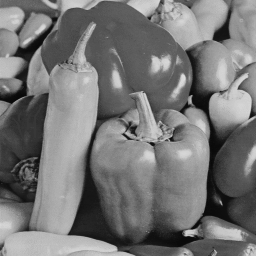
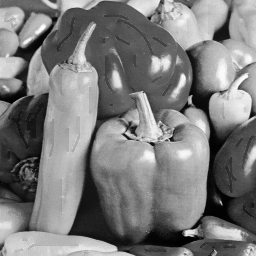
s o s

diff --git a/twodays.py b/twodays.py
@@ -8,118 +8,85 @@ from combine import get_high_res_colored
 from combine import get_high_res_colored2
 from combine import get_high_res_colored3
 from combine import get_high_res_colored4
-
+import numpy as np
 import scipy
-from scipy.misc import imread
+import scipy.misc
+
 
 import matplotlib
 import matplotlib.pyplot as plt
 matplotlib.use('TkAgg')
 
+import imageio
+from imageio import imread, imwrite
+
 PATH = 'images/'
-HIGH_RES_IMAGE = 'the_dunk.jpeg'
+HIGH_RES_IMAGE = 'colorized_test.png'
 
 if __name__ == "__main__":
 
+    fig = plt.figure()
     # Begin with a high resolution colorized image (HiResColor)
-    original_image = cv2.imread(PATH+HIGH_RES_IMAGE)
-    # # cv2.imshow('Original', original_image)
-    cv2.imwrite(PATH+'HiResColor_'+HIGH_RES_IMAGE, original_image)
+    original_image = imread(PATH+HIGH_RES_IMAGE)
+    # cv2.imshow('Original', original_image)
+    imwrite(PATH+'HiResColor_'+HIGH_RES_IMAGE, original_image)
+    fig.add_subplot(2,2,1).set_title('original')
+    imgplot = plt.imshow(original_image)
 
-    # # Convert the colorized image to black and white (HiResColor -> HiResBW)
+    # Convert the colorized image to black and white (HiResColor -> HiResBW)
     high_res_bw_image = color_to_bw(original_image)
-    # # cv2.imshow('HiResBW', high_res_bw_image)
-    cv2.imwrite(PATH+'HiResBW_'+HIGH_RES_IMAGE, high_res_bw_image)
+    # cv2.imshow('HiResBW', high_res_bw_image)
+    fig.add_subplot(2,2,2).set_title('black and white')
+    imgplot = plt.imshow(high_res_bw_image)
+    imwrite(PATH+'HiResBW_'+HIGH_RES_IMAGE, high_res_bw_image)
 
     # # Reduce the black and white image to a smaller size (HiResBW -> LoResBW)
     low_res_bw_image = res_change(high_res_bw_image, .5)
     # cv2.imshow(PATH+'LoResBW', low_res_bw_image)
-    cv2.imwrite(PATH+'LoResBW_'+HIGH_RES_IMAGE, low_res_bw_image)
+    fig.add_subplot(2,2,3).set_title('low_res bw')
+    imgplot = plt.imshow(low_res_bw_image)
+    imwrite(PATH+'LoResBW_'+HIGH_RES_IMAGE, low_res_bw_image)
 
-    # # User marks the smaller black and white image (LoResBW -> LoResMark)
-    #low_res_mark_image = cv2.imread(PATH+'LoResMark_colorized_test.png')
-    low_res_mark_image = color_image('LoResBW_'+HIGH_RES_IMAGE, HIGH_RES_IMAGE)
-    # cv2.imshow('LoResMark', low_res_mark_image)
-
-
-
-
-    # read in images
-    pic_o_rgb = imread(PATH+'LoResBW_'+HIGH_RES_IMAGE)
-    pic_o = pic_o_rgb.astype(float)/255
-    pic_m_rgb = imread(PATH+'LoResMark_colorized_test.png')
-    pic_m = pic_m_rgb.astype(float)/255
-    pic_high_res_bw_rgb = imread(PATH + 'HiResBW_'+ HIGH_RES_IMAGE)
-    pic_high_res_bw = pic_high_res_bw_rgb.astype(float)/255
-    pic_high_res_mark_rgb = imread(PATH + 'HiResMark_' + HIGH_RES_IMAGE)
-    pic_high_res_mark = pic_high_res_mark_rgb.astype(float)/255
-
-    ### Normal Colorization
-    ###
-    # time colorization process
-    t1_start = time.perf_counter()
-    t2_start = time.process_time()
-    
-    # get colorized versino of low res
-    high_res_color_image = colorize(pic_high_res_bw,pic_high_res_mark)
-
-    # get colorized version of high res
-    t1_stop = time.perf_counter()
-    t2_stop = time.process_time()
-    print("Elapsed time: %.1f [sec]" % ((t1_stop-t1_start)))
-    print("CPU process time: %.1f [sec]" % ((t2_stop-t2_start)))
-
-    fig = plt.figure()
-    fig.add_subplot(1,2,1).set_title('Black & White')
-    imgplot = plt.imshow(pic_o_rgb)
-    fig.add_subplot(1,2,2).set_title('Colorized')
-    imgplot = plt.imshow(high_res_color_image)
+    # User marks the smaller black and white image (LoResBW -> LoResMark)
+    low_res_mark_image = cv2.imread(PATH+'LoResMark_'+HIGH_RES_IMAGE)
+    # low_res_mark_image = color_image('LoResBW_'+HIGH_RES_IMAGE, HIGH_RES_IMAGE)
+    fig.add_subplot(2,2,4).set_title('marked low_res bw')
+    imgplot = plt.imshow(imread(PATH+'LoResMark_'+HIGH_RES_IMAGE))
     plt.show();
 
-    ### Colorize on using expanded colorize of low res
+    # cv2.imshow('LoResMark', low_res_mark_image)
+
+    # read in images
+
+    # # pic_o_rgb = low_res_bw_image[:,:,None]*np.ones(3, dtype=np.int8)[None,None,:]
+    pic_o_rgb = scipy.misc.imread(PATH+'LoResBW_colorized_test.png')
+    pic_o = pic_o_rgb.astype(float)/255
+    # # pic_m_rgb = low_res_mark_image[:,:,None]*np.ones(3, dtype=np.int8)[None,None,:]
+    pic_m_rgb = scipy.misc.imread(PATH+'LoResMark_colorized_test.png')
+    pic_m = pic_m_rgb.astype(float)/255
+
+
+    ## Colorize on using expanded colorize of low res
     t1_start = time.perf_counter()
     t2_start = time.process_time()
     
     # get colorized versino of low res
     low_res_color_image = colorize(pic_o,pic_m)
-
+    # cv2.imshow('LoResColor', low_res_color_image)
     # get colorized version of high res
-    high_res_color_reconstructed = get_high_res_colored4(pic_o, low_res_color_image, pic_high_res_bw,2)
-    high_res_color_image = colorize(pic_high_res_bw,high_res_color_reconstructed)
+    high_res_color_reconstructed = get_high_res_colored4(pic_o, low_res_color_image, high_res_bw_image,2)
+    high_res_color_image = colorize(high_res_bw_image,high_res_color_reconstructed)
     t1_stop = time.perf_counter()
     t2_stop = time.process_time()
     print("Elapsed time: %.1f [sec]" % ((t1_stop-t1_start)))
     print("CPU process time: %.1f [sec]" % ((t2_stop-t2_start)))
 
     fig = plt.figure()
-    fig.add_subplot(1,2,1).set_title('Black & White')
-    imgplot = plt.imshow(pic_o_rgb)
+    fig.add_subplot(1,2,1).set_title('REconstructed')
+    imgplot = plt.imshow(high_res_bw_image)
     fig.add_subplot(1,2,2).set_title('Colorized')
     imgplot = plt.imshow(high_res_color_image)
     plt.show();
-
-    
-    # Colorize using windows 2x2
-    # time colorization process
-#     t1_start = time.perf_counter()
-#     t2_start = time.process_time()
-    
-#     # get colorized versino of low res
-#     low_res_color_image = colorize(pic_o,pic_m)
-
-#     # get colorized version of high res
-#     high_res_color_reconstructed = get_high_res_colored(pic_o, low_res_color_image, pic_high_res_bw,2)
-#     t1_stop = time.perf_counter()
-#     t2_stop = time.process_time()
-#     print("Elapsed time: %.1f [sec]" % ((t1_stop-t1_start)))
-#     print("CPU process time: %.1f [sec]" % ((t2_stop-t2_start)))
-
-#     fig = plt.figure()
-#     fig.add_subplot(1,2,1).set_title('Black & White')
-#     imgplot = plt.imshow(pic_o_rgb)
-#     fig.add_subplot(1,2,2).set_title('Colorized')
-#     imgplot = plt.imshow(high_res_color_reconstructed)
-#     plt.show();
 
     cv2.waitKey(0)
     cv2.destroyAllWindows()

diff --git a/example_color_benchmark.py b/example_color_benchmark.py
@@ -16,8 +16,10 @@ np.set_printoptions(precision=8, suppress=True)
 #path_pic = 'LoResBW_peppers.png'
 #path_pic_marked = 'LoResBW_peppers_marked.png'
 PATH = 'images/'
-path_pic = 'lr_peppers.png'
-path_pic_marked = 'lr_peppers_marked.png'
+path_pic = PATH+'LoResBW_colorized_test.png'
+path_pic_marked = PATH+'LoResMark_colorized_test.png'
+# path_pic = 'lr_peppers.png'
+# path_pic_marked = 'lr_peppers_marked.png'
 # window width
 wd_width = 1
 
@@ -154,12 +156,12 @@ t1_stop = time.perf_counter()
 t2_stop = time.process_time()
 print("Elapsed time: %.1f [sec]" % ((t1_stop-t1_start)))
 print("CPU process time: %.1f [sec]" % ((t2_stop-t2_start)))
-# fig = plt.figure()
-# fig.add_subplot(1,2,1).set_title('Black & White')
-# imgplot = plt.imshow(pic_o_rgb)
-# fig.add_subplot(1,2,2).set_title('Colorized')
-# imgplot = plt.imshow(pic_ans)
+fig = plt.figure()
+fig.add_subplot(1,2,1).set_title('Black & White')
+imgplot = plt.imshow(pic_o_rgb)
+fig.add_subplot(1,2,2).set_title('Colorized')
+imgplot = plt.imshow(pic_ans)
 
 import numpy
-imageio.imwrite(PATH + 'colorized_test.png', numpy.array(pic_ans))
-# plt.show();
+# imageio.imwrite(PATH + 'colorized_test.png', numpy.array(pic_ans))
+plt.show();

diff --git a/example_color.py b/example_color.py
@@ -15,16 +15,16 @@ np.set_printoptions(precision=8, suppress=True)
 #path_pic = 'LoResBW_peppers.png'
 #path_pic_marked = 'LoResBW_peppers_marked.png'
 PATH = 'images/'
-path_pic = 'lr_peppers.png'
-path_pic_marked = 'lr_peppers_marked.png'
+# path_pic = 'maplestory.png'
+# path_pic_marked = 'lr_peppers_marked.png'
 # window width
 wd_width = 1
 
 # pic_o_rgb = imread(path_pic)
-pic_o_rgb = imread(PATH+'LoResBW_'+'colorized_test.png')
+pic_o_rgb = imread(PATH+'LoResBW_'+'maplestory.jpg')
 pic_o = pic_o_rgb.astype(float)/255
 # pic_m_rgb = imread(path_pic_marked)
-pic_m_rgb = imread(PATH+'LoResMark_colorized_test.png')
+pic_m_rgb = imread(PATH+'LoResMark_'+'maplestory.jpg')
 pic_m = pic_m_rgb.astype(float)/255
 
 

diff --git a/color_to_bw.py b/color_to_bw.py
@@ -1,6 +1,7 @@
 import cv2
 import numpy as np
-
+import scipy
+from scipy.misc import imread
 PATH = 'images/'
 
 def color_to_bw(img):
@@ -14,8 +15,11 @@ def color_to_bw(img):
 
 if __name__ == "__main__":
     img = cv2.imread(PATH+'the_dunk.jpeg')
+    cv2.imshow('the dunk', img)
     bw = color_to_bw(img)
     cv2.imshow('Gray image', bw)
-    
+    print("bw",bw)
+    testing = bw[:,:,None]*np.ones(3, dtype=np.int8)[None,None,:]
+    print("testing",testing)
     cv2.waitKey(0)
     cv2.destroyAllWindows()
